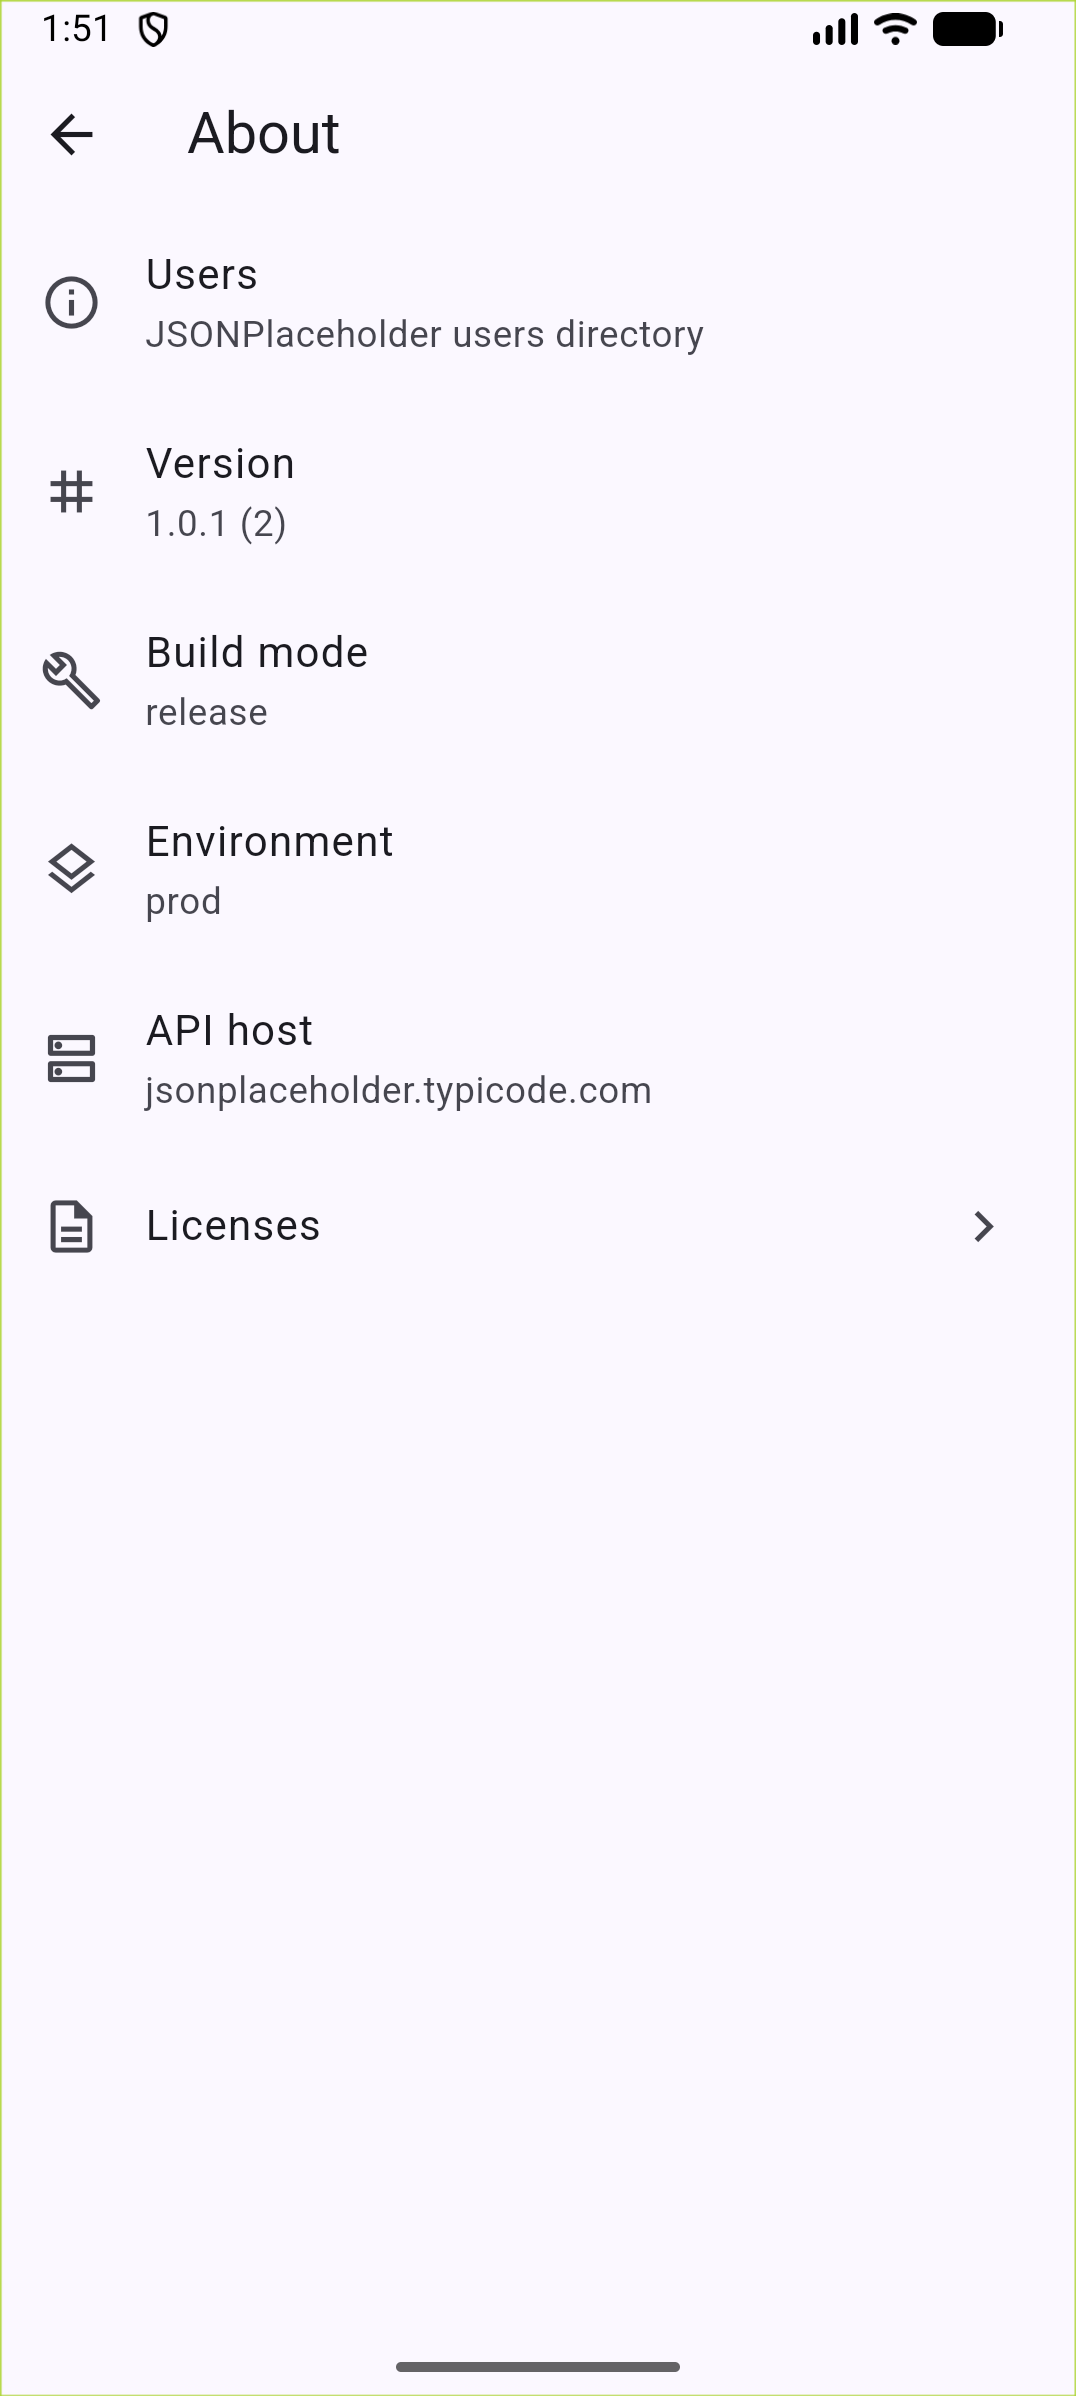
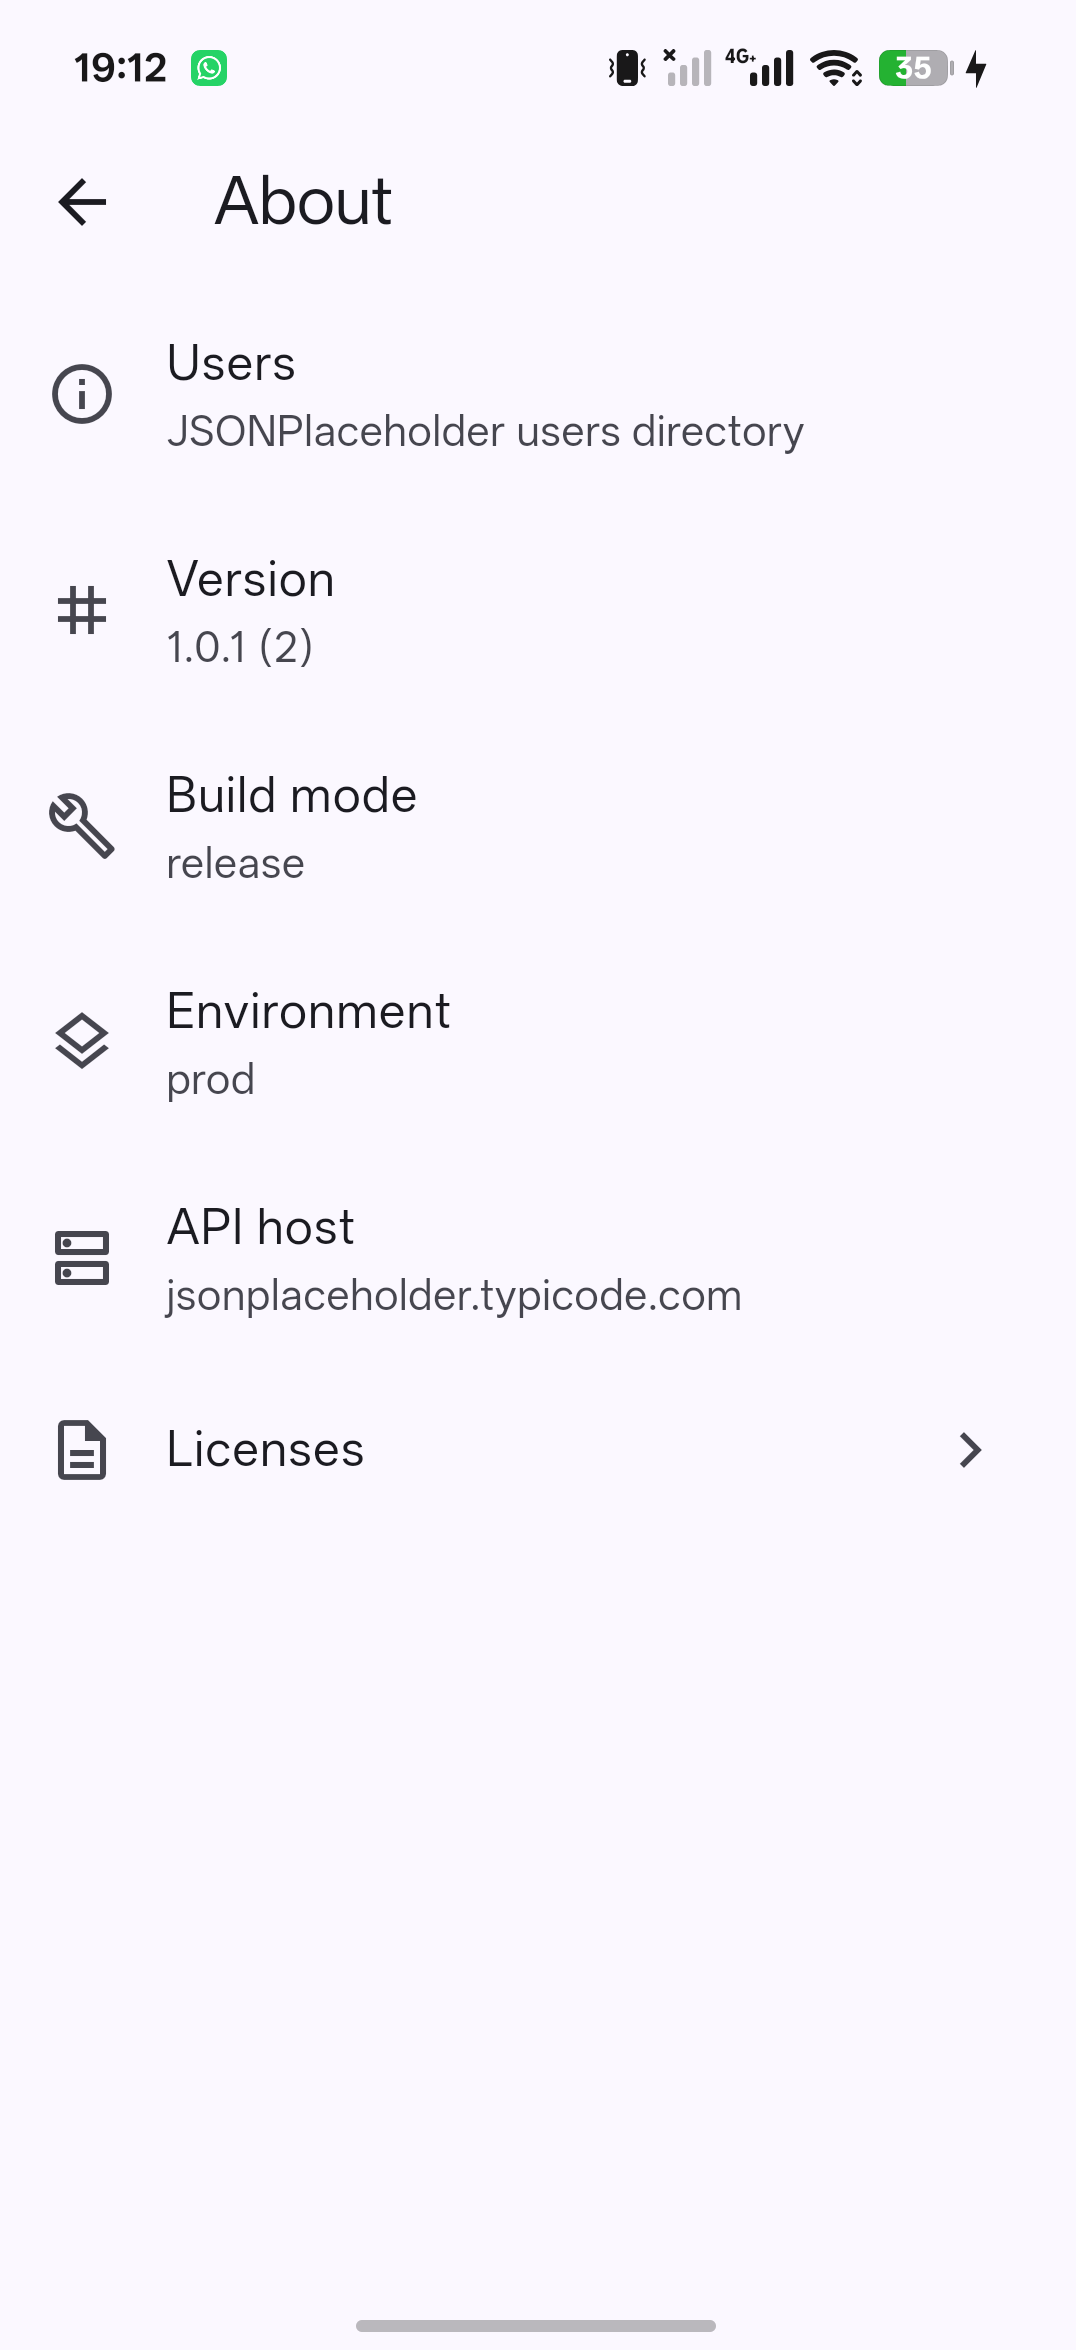
record phone test and GitHub release

diff --git a/practices/practice_14/users_api/README.md b/practices/practice_14/users_api/README.md
@@ -40,7 +40,7 @@ The split build produces three APKs. `app-arm64-v8a-release.apk` is archived wit
 - [x] **Splash** — splash and Android 12 splash generated by `flutter_native_splash`.
 - [x] **Name and network** — Android label and iOS display name are `Users`; `INTERNET` is declared in the main manifest.
 - [x] **Release artifact** — arm64 release APK and symbols archived in `releases/1.0.1+2`; appbundle built.
-- [ ] **Real phone and GitHub Release** — release APK was installed from the file on the emulator; a physical phone and a GitHub Release page with the APK still need the user's GitHub access and device.
+- [x] **Real phone and GitHub Release** — installed from the file on a physical Android phone (PLG110), tested over mobile data, About screenshot captured; GitHub Release [v1.0.1](https://github.com/Dauserr/flutter-2026-serikbayev-daulet/releases/tag/v1.0.1) contains the arm64 APK, and `screenshot_release_page.png` shows the release page.
 
 ## Quality checklist
 

diff --git a/practices/practice_14/users_api/NOTES.md b/practices/practice_14/users_api/NOTES.md
@@ -90,4 +90,5 @@ flutter symbolize -i crash.txt -d releases/1.0.1+2/symbols/app.android-arm64.sym
 - App bundle: `build/app/outputs/bundle/release/app-release.aab`.
 - Release icon says `Users`; the launcher shows the custom U icon.
 - About screen: `1.0.1 (2)`, `release`, `prod`, `jsonplaceholder.typicode.com`.
-- `screenshot_about_release.png` captured from the installed release on the Android emulator; a physical phone and GitHub Release page are still pending because this environment has no GitHub credentials or physical device.
+- `screenshot_about_release.png` captured from the installed release on the physical Android phone (PLG110); `screenshot_release_page.png` shows the GitHub Release.
+- GitHub Release: https://github.com/Dauserr/flutter-2026-serikbayev-daulet/releases/tag/v1.0.1
